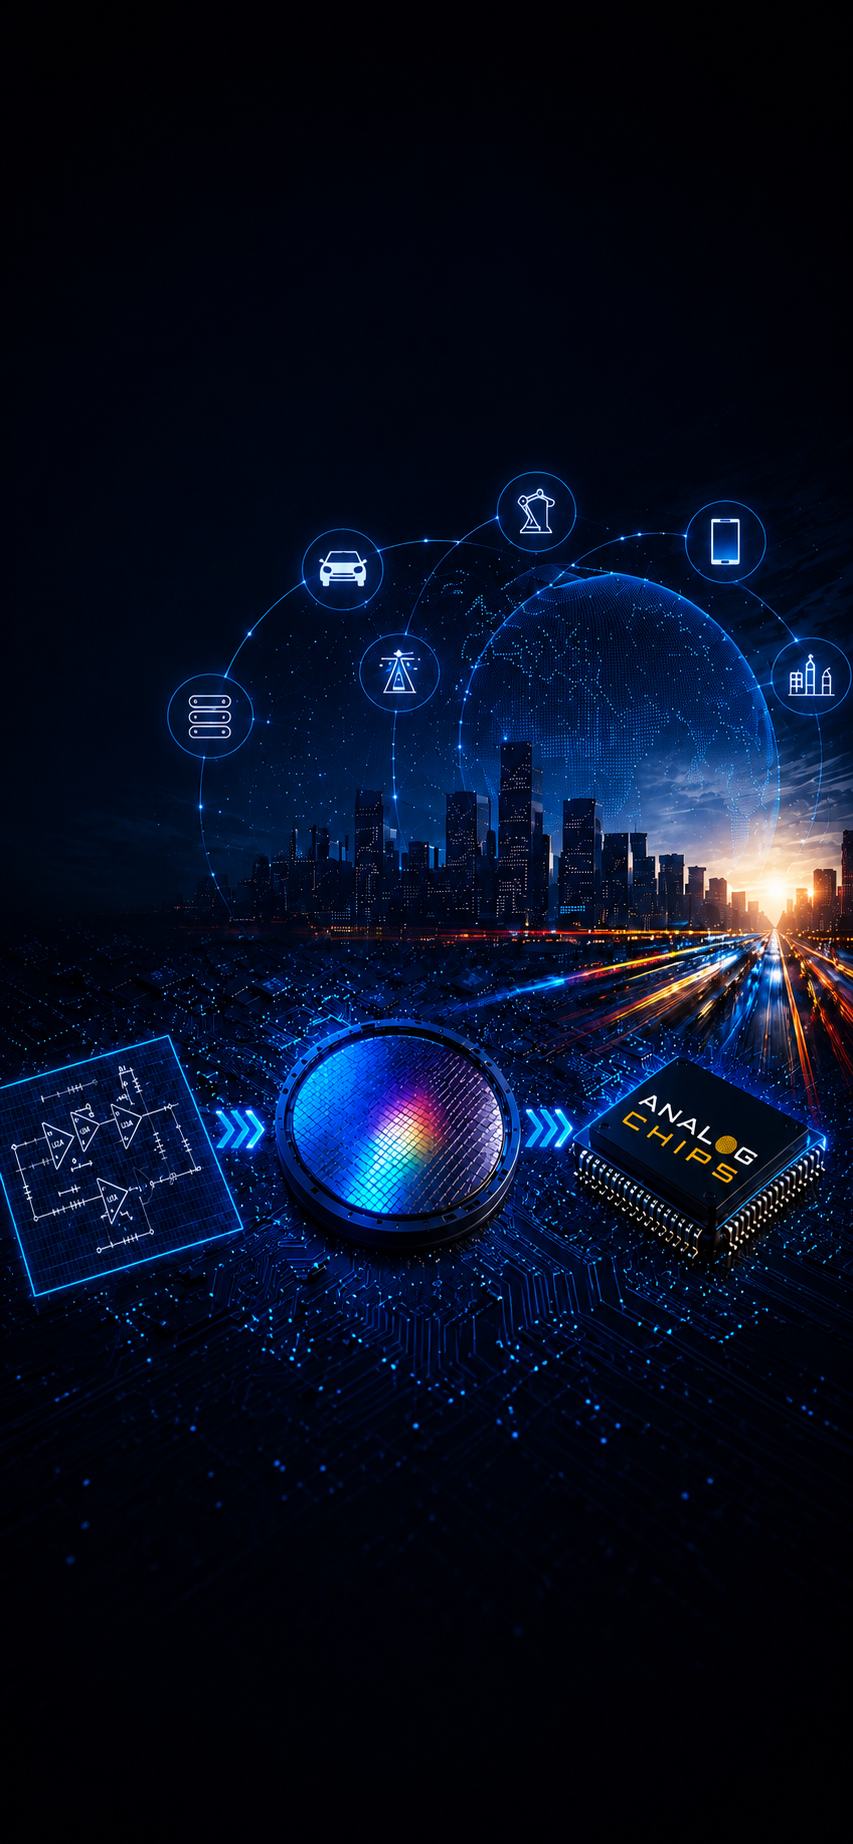
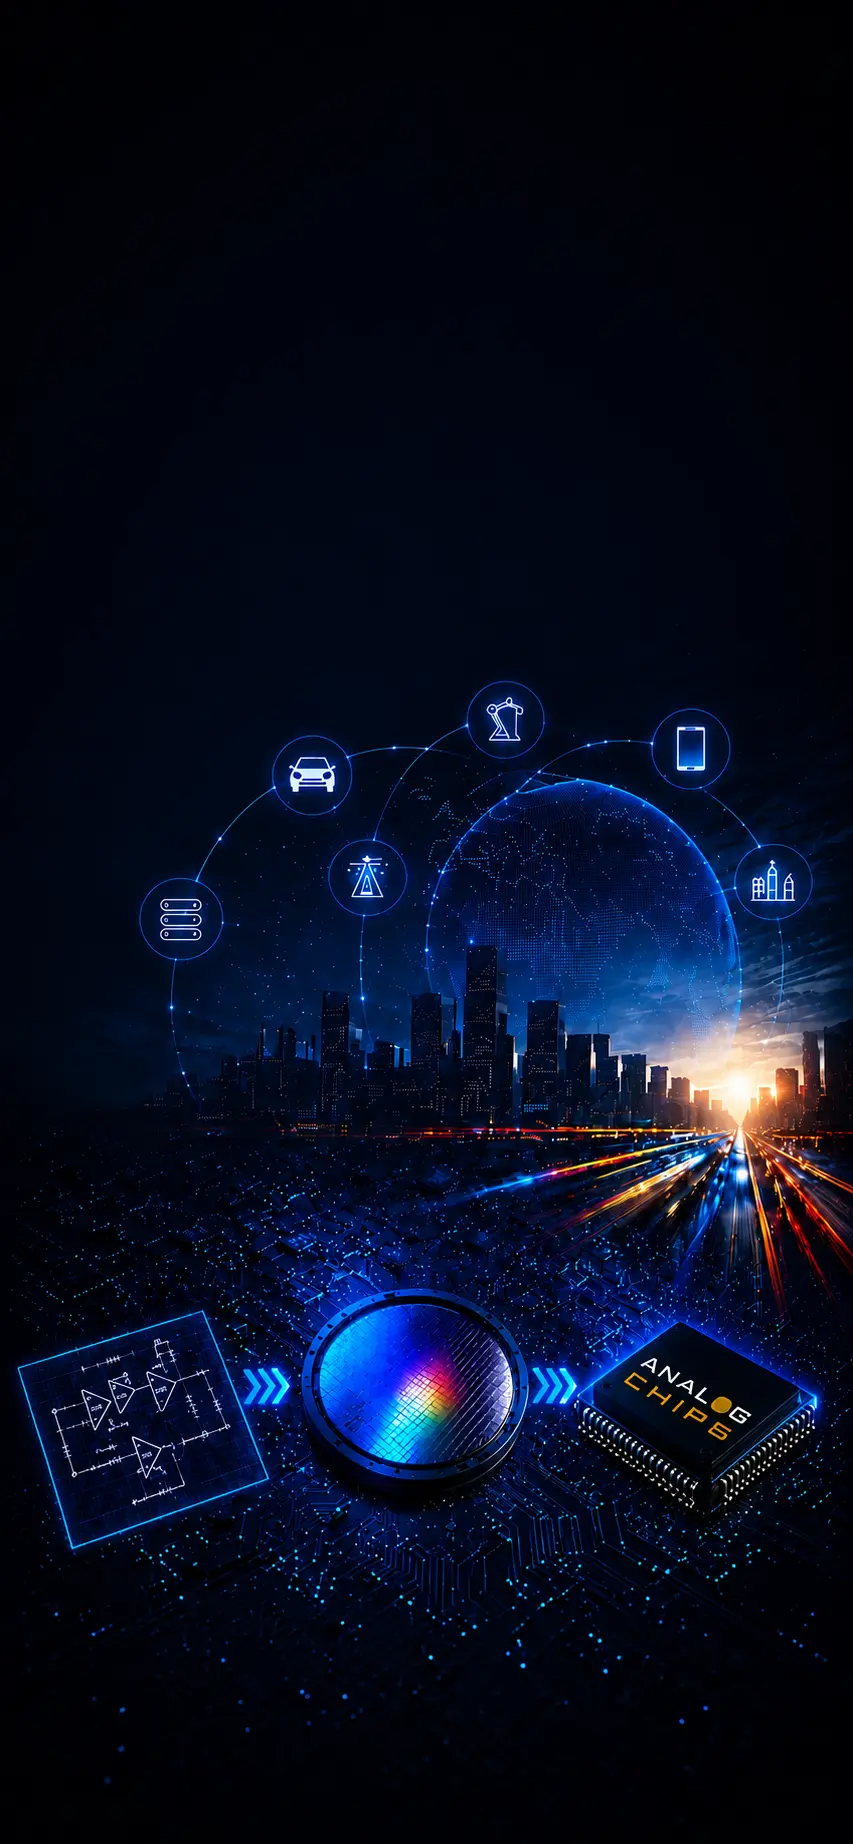
updated code

diff --git a/app/page.tsx b/app/page.tsx
@@ -13,13 +13,13 @@ import { StatsSection } from "@/components/home/StatsSection";
 import { TrustedClientsSection } from "@/components/home/TrustedClientsSection";
 
 export const metadata: Metadata = {
-  title: "ACT - AnalogChips Technology",
-  description:
-    "A fabless semiconductor company designing high-performance power management solutions. Boost converters, Buck regulators, LDO, LED Drivers and more — Made in India, Designed in India.",
+  title: "ACT - AnalogChips Technology PVT LTD",
+  // description:
+  //   "AnalogChips Technology PVT LTD. semiconductor company designing high-performance power management solutions. Boost converters, Buck regulators, LDO, LED Drivers and more — Made in India, Designed in India.",
   openGraph: {
-    title: "ACT - AnalogChips Technology",
-    description:
-      "A fabless semiconductor company designing high-performance power management solutions. Boost converters, Buck regulators, LDO, LED Drivers and more — Made in India, Designed in India.",
+    title: "ACT - AnalogChips Technology PVT LTD",
+    // description:
+    //   "AnalogChips Technology PVT LTD. semiconductor company designing high-performance power management solutions. Boost converters, Buck regulators, LDO, LED Drivers and more — Made in India, Designed in India.",
     type: "website",
   },
 };

diff --git a/app/contact/page.tsx b/app/contact/page.tsx
@@ -280,8 +280,7 @@ export default function ContactPage() {
                         Send us a Message
                       </h2>
                       <p className="text-slate-800 font-medium leading-relaxed">
-                        Fill out the form below and we'll get back to you within
-                        24 hours
+                        Fill out the form below and we'll get back to you soon
                       </p>
                     </div>
 